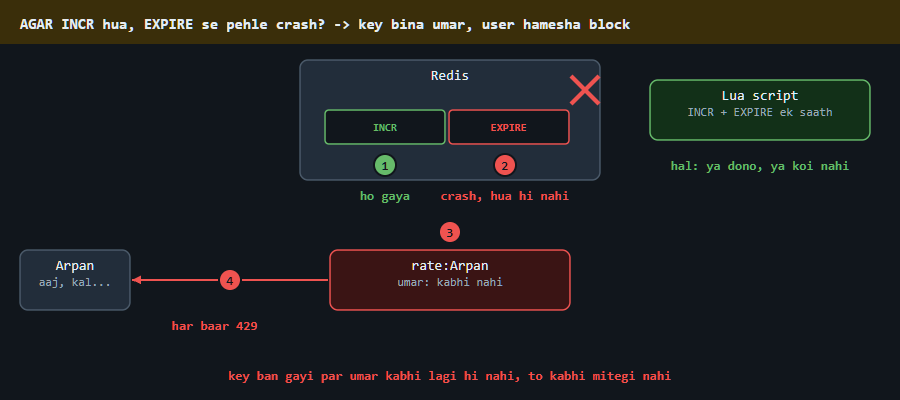
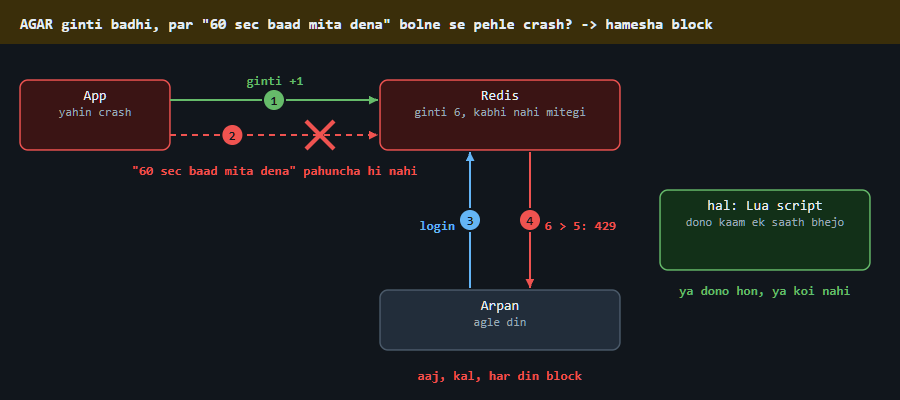
hld rate limiter c2 agar: seedhi bhasha (60 sec baad mita dena pahuncha hi nahi)

diff --git a/04_HLD/SYSTEM_DESIGNS/02_rate_limiter/img/c2_anim.html b/04_HLD/SYSTEM_DESIGNS/02_rate_limiter/img/c2_anim.html
@@ -139,7 +139,7 @@ const DUR = 9;
 const PH = [
   [0, RED, 'DIKKAT', 'DIKKAT: ginti padhna aur badhana do alag kadam. Beech me doosra bhi wahi padh leta'],
   [3, GRN, 'ILAAJ', 'ILAAJ: INCR = padhna + badhana ek hi kadam. Redis ek ke baad ek chalata'],
-  [6, YEL, 'AGAR', 'AGAR INCR hua, EXPIRE se pehle crash? -> key bina umar, user hamesha block'],
+  [6, YEL, 'AGAR', 'AGAR ginti badhi, par "60 sec baad mita dena" bolne se pehle crash? -> hamesha block'],
 ];
 function setup() {}
 function frame(ph) {
@@ -167,16 +167,18 @@ function frame(ph) {
     L(450, 300, 'INCR = padhna + badhana ek hi kadam', C.good);
     L(450, 330, 'beech me koi doosra ghus hi nahi sakta', C.good);
   } else {
-    B(300, 20, 300, 120, 'Redis', '', {});
-    cells(325, 70, [['INCR', C.good], ['EXPIRE', C.bad]], { w: 120, h: 34 });
-    num(385, 125, 1, C.good); L(385, 160, 'ho gaya', C.good);
-    cross(585, 50); num(505, 125, 2, C.bad); L(505, 160, 'crash, hua hi nahi', C.bad);
-    B(330, 210, 240, 60, 'rate:Arpan', 'umar: kabhi nahi', { st: 'bad' }); num(450, 192, 3, C.bad);
-    B(20, 210, 110, 60, 'Arpan', 'aaj, kal...');
-    A(328, 240, 132, 240, C.bad, { n: 4, at: 0.5 }); L(215, 290, 'har baar 429', C.bad);
-    B(650, 40, 220, 60, 'Lua script', 'INCR + EXPIRE ek saath', { st: 'good' });
-    L(760, 130, 'hal: ya dono, ya koi nahi', C.good);
-    L(450, 340, 'key ban gayi par umar kabhi lagi hi nahi, to kabhi mitegi nahi', C.bad);
+    // App ne ginti badhai, "60 sec baad mita dena" bhejne se pehle App crash
+    B(20, 40, 150, 70, 'App', 'yahin crash', { st: 'bad' });
+    B(380, 40, 240, 70, 'Redis', 'ginti 6, kabhi nahi mitegi', { st: 'bad' });
+    A(170, 60, 378, 60, C.good, { n: 1 }); L(275, 45, 'ginti +1', C.good);
+    A(170, 95, 378, 95, C.bad, { n: 2, dash: 1, at: 0.3 }); cross(320, 95);
+    L(275, 135, '"60 sec baad mita dena" pahuncha hi nahi', C.bad);
+    B(380, 250, 240, 60, 'Arpan', 'agle din');
+    A(470, 248, 470, 112, C.msg, { n: 3 }); L(455, 190, 'login', C.msg, 'end');
+    A(530, 112, 530, 248, C.bad, { n: 4 }); L(545, 190, '6 > 5: 429', C.bad, 'start');
+    L(500, 340, 'aaj, kal, har din block', C.bad);
+    B(660, 150, 210, 80, 'hal: Lua script', 'dono kaam ek saath bhejo', { st: 'good' });
+    L(765, 255, 'ya dono hon, ya koi nahi', C.good);
   }
 }
 

diff --git a/04_HLD/SYSTEM_DESIGNS/02_rate_limiter/img/c2_anim.js b/04_HLD/SYSTEM_DESIGNS/02_rate_limiter/img/c2_anim.js
@@ -4,7 +4,7 @@ const DUR = 9;
 const PH = [
   [0, RED, 'DIKKAT', 'DIKKAT: ginti padhna aur badhana do alag kadam. Beech me doosra bhi wahi padh leta'],
   [3, GRN, 'ILAAJ', 'ILAAJ: INCR = padhna + badhana ek hi kadam. Redis ek ke baad ek chalata'],
-  [6, YEL, 'AGAR', 'AGAR INCR hua, EXPIRE se pehle crash? -> key bina umar, user hamesha block'],
+  [6, YEL, 'AGAR', 'AGAR ginti badhi, par "60 sec baad mita dena" bolne se pehle crash? -> hamesha block'],
 ];
 function setup() {}
 function frame(ph) {
@@ -32,15 +32,17 @@ function frame(ph) {
     L(450, 300, 'INCR = padhna + badhana ek hi kadam', C.good);
     L(450, 330, 'beech me koi doosra ghus hi nahi sakta', C.good);
   } else {
-    B(300, 20, 300, 120, 'Redis', '', {});
-    cells(325, 70, [['INCR', C.good], ['EXPIRE', C.bad]], { w: 120, h: 34 });
-    num(385, 125, 1, C.good); L(385, 160, 'ho gaya', C.good);
-    cross(585, 50); num(505, 125, 2, C.bad); L(505, 160, 'crash, hua hi nahi', C.bad);
-    B(330, 210, 240, 60, 'rate:Arpan', 'umar: kabhi nahi', { st: 'bad' }); num(450, 192, 3, C.bad);
-    B(20, 210, 110, 60, 'Arpan', 'aaj, kal...');
-    A(328, 240, 132, 240, C.bad, { n: 4, at: 0.5 }); L(215, 290, 'har baar 429', C.bad);
-    B(650, 40, 220, 60, 'Lua script', 'INCR + EXPIRE ek saath', { st: 'good' });
-    L(760, 130, 'hal: ya dono, ya koi nahi', C.good);
-    L(450, 340, 'key ban gayi par umar kabhi lagi hi nahi, to kabhi mitegi nahi', C.bad);
+    // App ne ginti badhai, "60 sec baad mita dena" bhejne se pehle App crash
+    B(20, 40, 150, 70, 'App', 'yahin crash', { st: 'bad' });
+    B(380, 40, 240, 70, 'Redis', 'ginti 6, kabhi nahi mitegi', { st: 'bad' });
+    A(170, 60, 378, 60, C.good, { n: 1 }); L(275, 45, 'ginti +1', C.good);
+    A(170, 95, 378, 95, C.bad, { n: 2, dash: 1, at: 0.3 }); cross(320, 95);
+    L(275, 135, '"60 sec baad mita dena" pahuncha hi nahi', C.bad);
+    B(380, 250, 240, 60, 'Arpan', 'agle din');
+    A(470, 248, 470, 112, C.msg, { n: 3 }); L(455, 190, 'login', C.msg, 'end');
+    A(530, 112, 530, 248, C.bad, { n: 4 }); L(545, 190, '6 > 5: 429', C.bad, 'start');
+    L(500, 340, 'aaj, kal, har din block', C.bad);
+    B(660, 150, 210, 80, 'hal: Lua script', 'dono kaam ek saath bhejo', { st: 'good' });
+    L(765, 255, 'ya dono hon, ya koi nahi', C.good);
   }
 }

diff --git a/04_HLD/SYSTEM_DESIGNS/02_rate_limiter/02_rate_limiter.md b/04_HLD/SYSTEM_DESIGNS/02_rate_limiter/02_rate_limiter.md
@@ -86,11 +86,11 @@ Cue: ATOMIC: INCR / LUA script
 
 <details><summary>kahani dekho (3 scene)</summary>
 
-<img src="img/c2_1.png?v=3" width="900">
+<img src="img/c2_1.png?v=4" width="900">
 
-<img src="img/c2_2.png?v=3" width="900">
+<img src="img/c2_2.png?v=4" width="900">
 
-<img src="img/c2_3.png?v=3" width="900">
+<img src="img/c2_3.png?v=4" width="900">
 
 </details>
 
